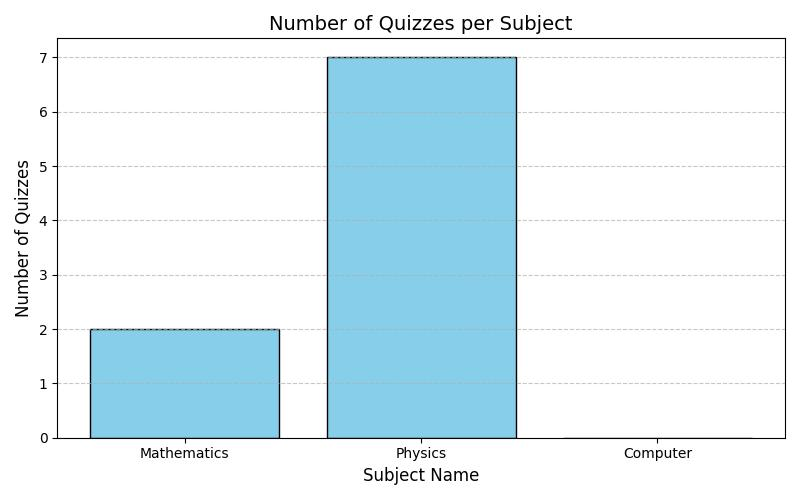
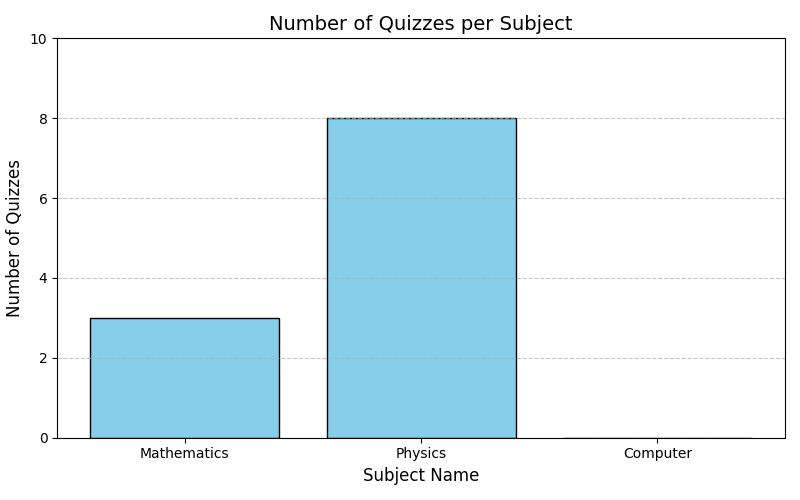
updated

diff --git a/app.py b/app.py
@@ -310,7 +310,7 @@ def admin_summary():
 
     max_quizzes = max(sub['no_of_quizzes'] for sub in data)
     plt.ylim(0, 10 if max_quizzes < 10 else max_quizzes+1)
-    plt.savefig("./static/user_chart.jpg")
+    plt.savefig("./static/admin_chart.jpg")
 
     return render_template("admin_chart.html", admin=admin)
 
